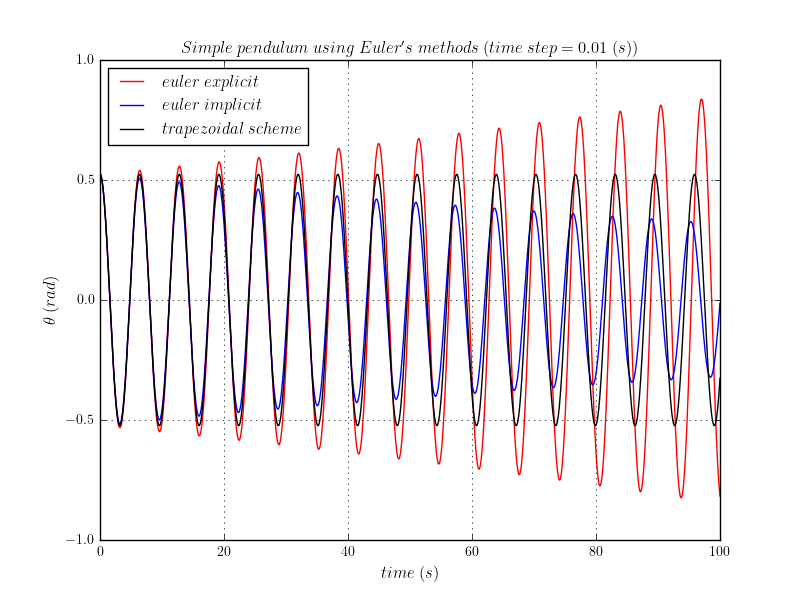
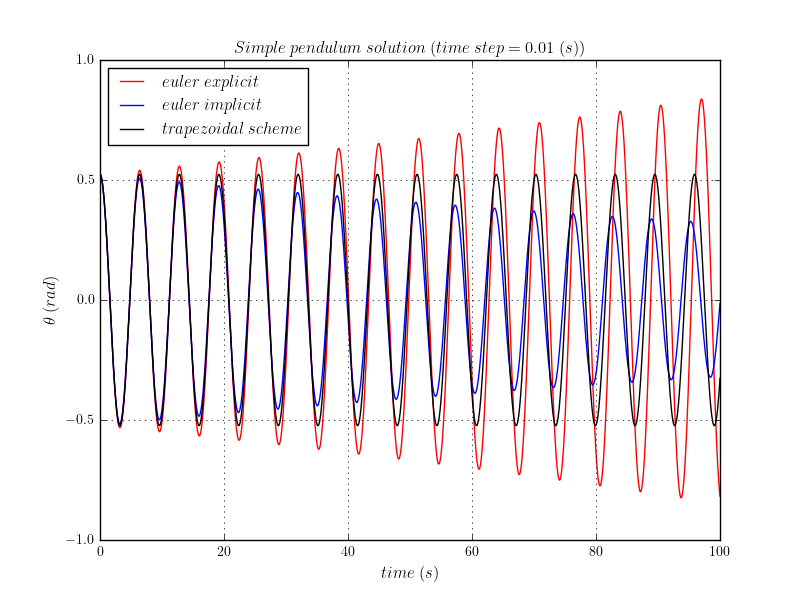
script to compute the angular displacement and angular velocity for a simple pendulum using euler's method

Changed region(s): [[0.2188, 0.06, 0.7812, 0.09]]

diff --git a/Endsem/Scripts/Program8/program8.py b/Endsem/Scripts/Program8/program8.py
@@ -72,6 +72,6 @@ for n, dt in enumerate([0.01, 0.02, 0.05, 0.1, 0.2, 0.5, 1, 2, 5, 10, 20]):  # t
     ax.plot(t, theta2, "b-", label=r"$euler\ implicit$")
     ax.plot(t, theta3, "k-", label=r"$trapezoidal\ scheme$")
     ax.set(xlabel=r"$time\ (s)$", ylabel=r"$\theta\ (rad)$")
-    ax.set_title(r"$Simple\ pendulum\ using\ Euler's\ methods\ (time\ step = {}\ (s))$".format(dt))
+    ax.set_title(r"$Simple\ pendulum\ solution\ (time\ step = {}\ (s))$".format(dt))
     ax.grid(True); ax.legend(loc="best")
     plt.savefig("program8{}.pgf".format(n))
